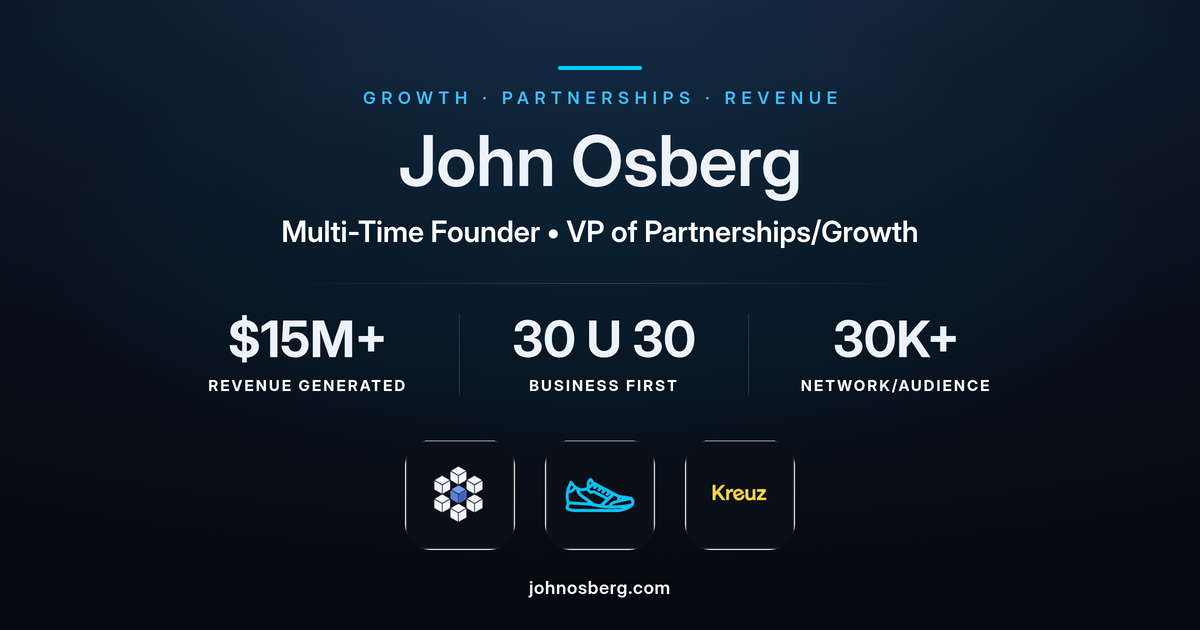
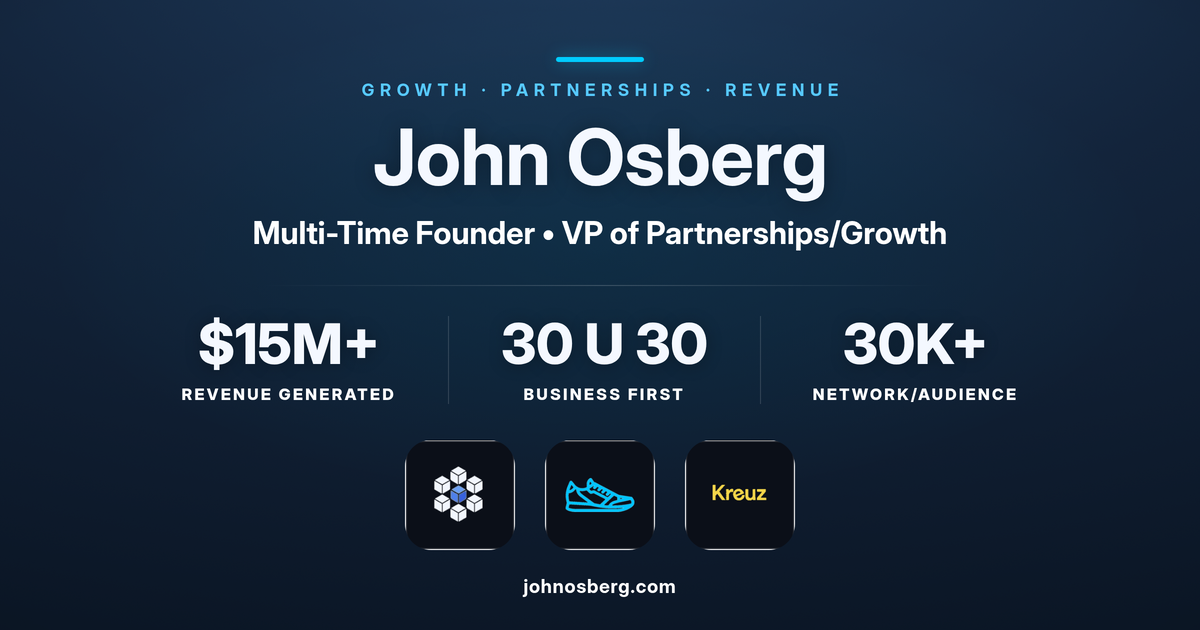
design(og): compression-harden share card so it holds up in LinkedIn
Lift the gradient floor off near-black, tighten the corner vignette, and add
a fine dither overlay so LinkedIn's JPEG re-encode has no smooth dark expanse
to band across. Bump name/sub/stat type to heavier weights so it stays crisp
after LinkedIn shrinks the thumbnail. Bust og cache v91 -> v92.

diff --git a/src/app/layout.tsx b/src/app/layout.tsx
@@ -44,13 +44,13 @@ export const metadata: Metadata = {
     siteName: SITE_NAME,
     locale: "en_US",
     type: "website",
-    images: [{ url: "/og.png?v=91", width: 1200, height: 630, alt: SITE_NAME }],
+    images: [{ url: "/og.png?v=92", width: 1200, height: 630, alt: SITE_NAME }],
   },
   twitter: {
     card: "summary_large_image",
     title: SITE_TITLE,
     description: OG_DESCRIPTION,
-    images: ["/og.png?v=91"],
+    images: ["/og.png?v=92"],
   },
 };
 
